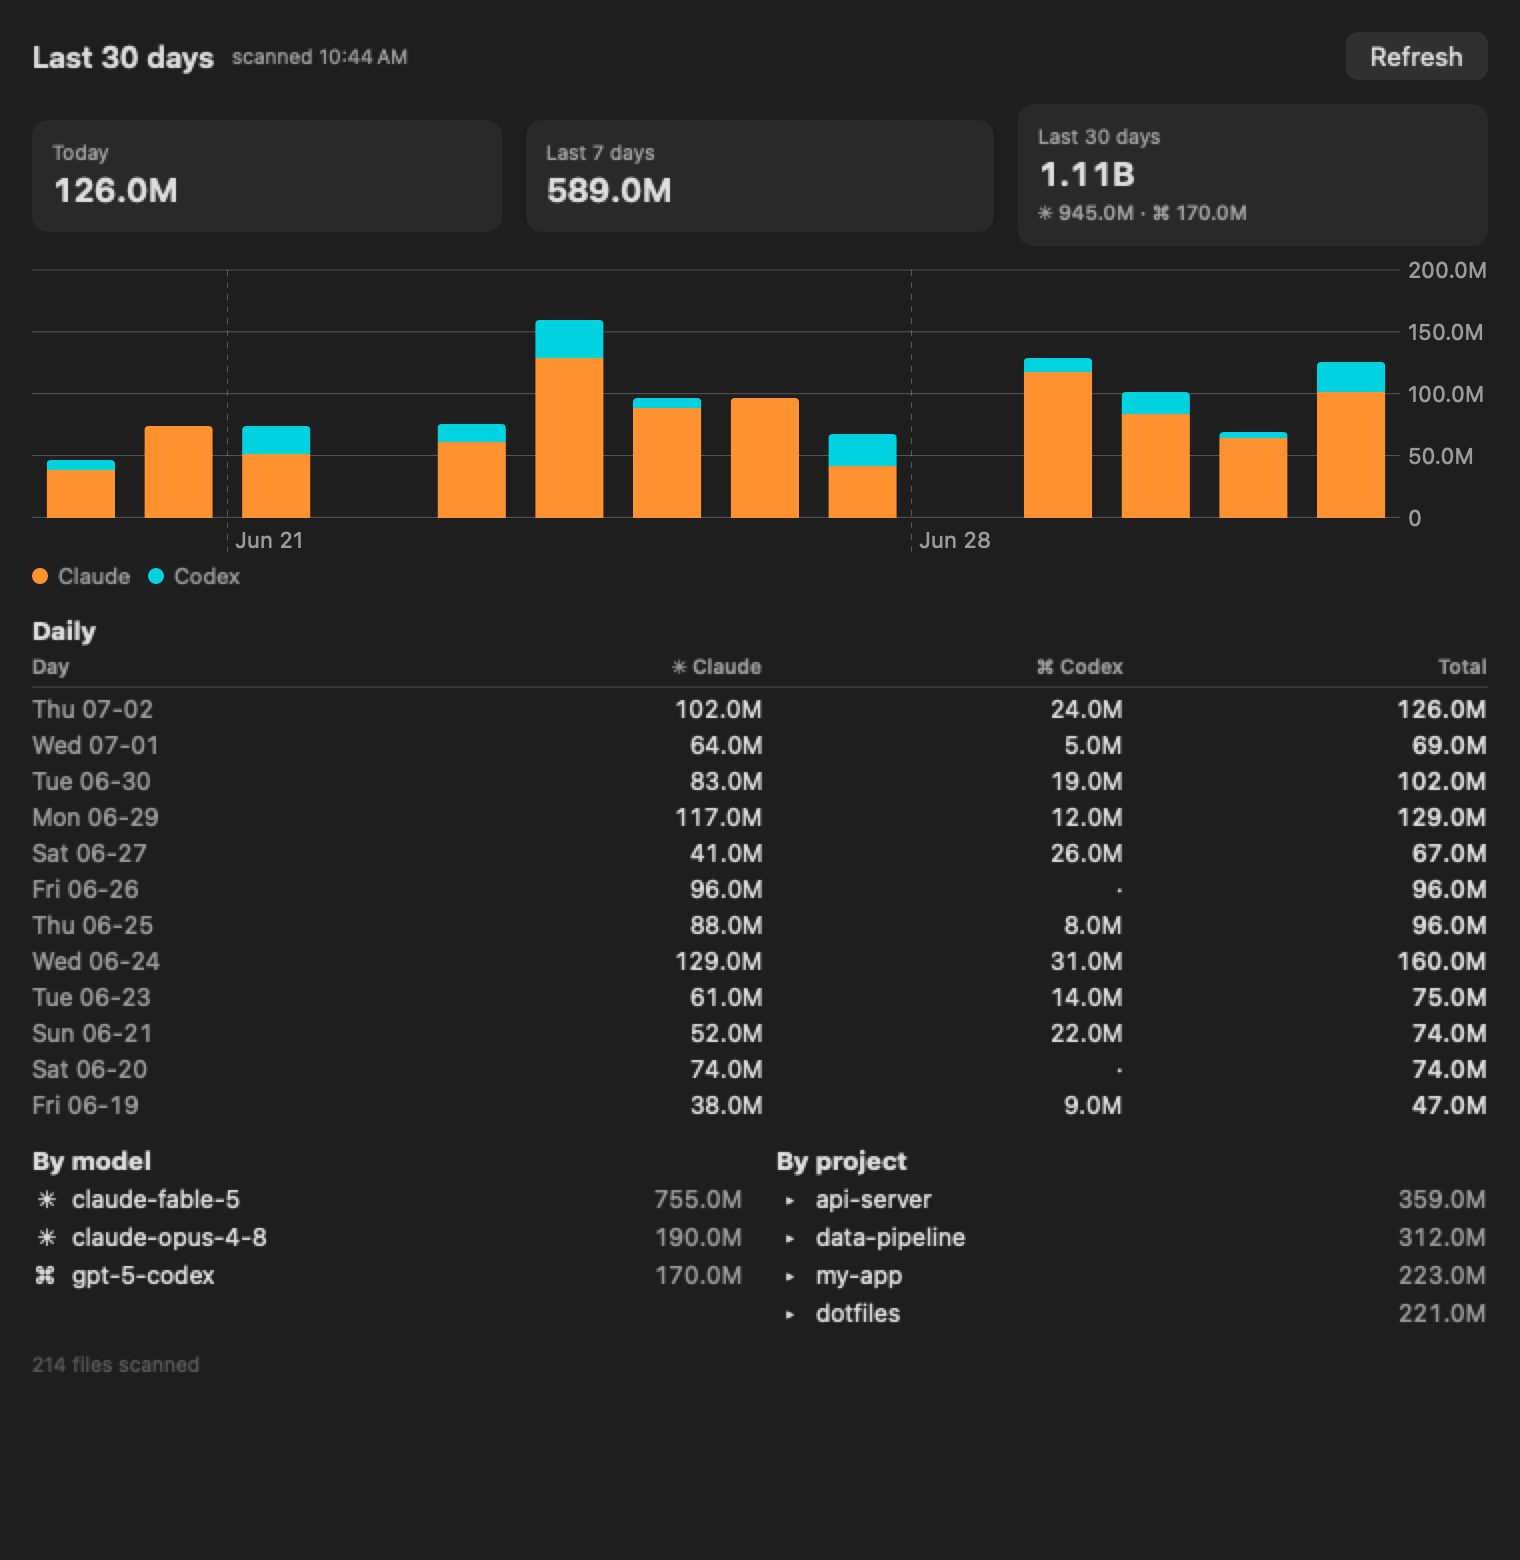
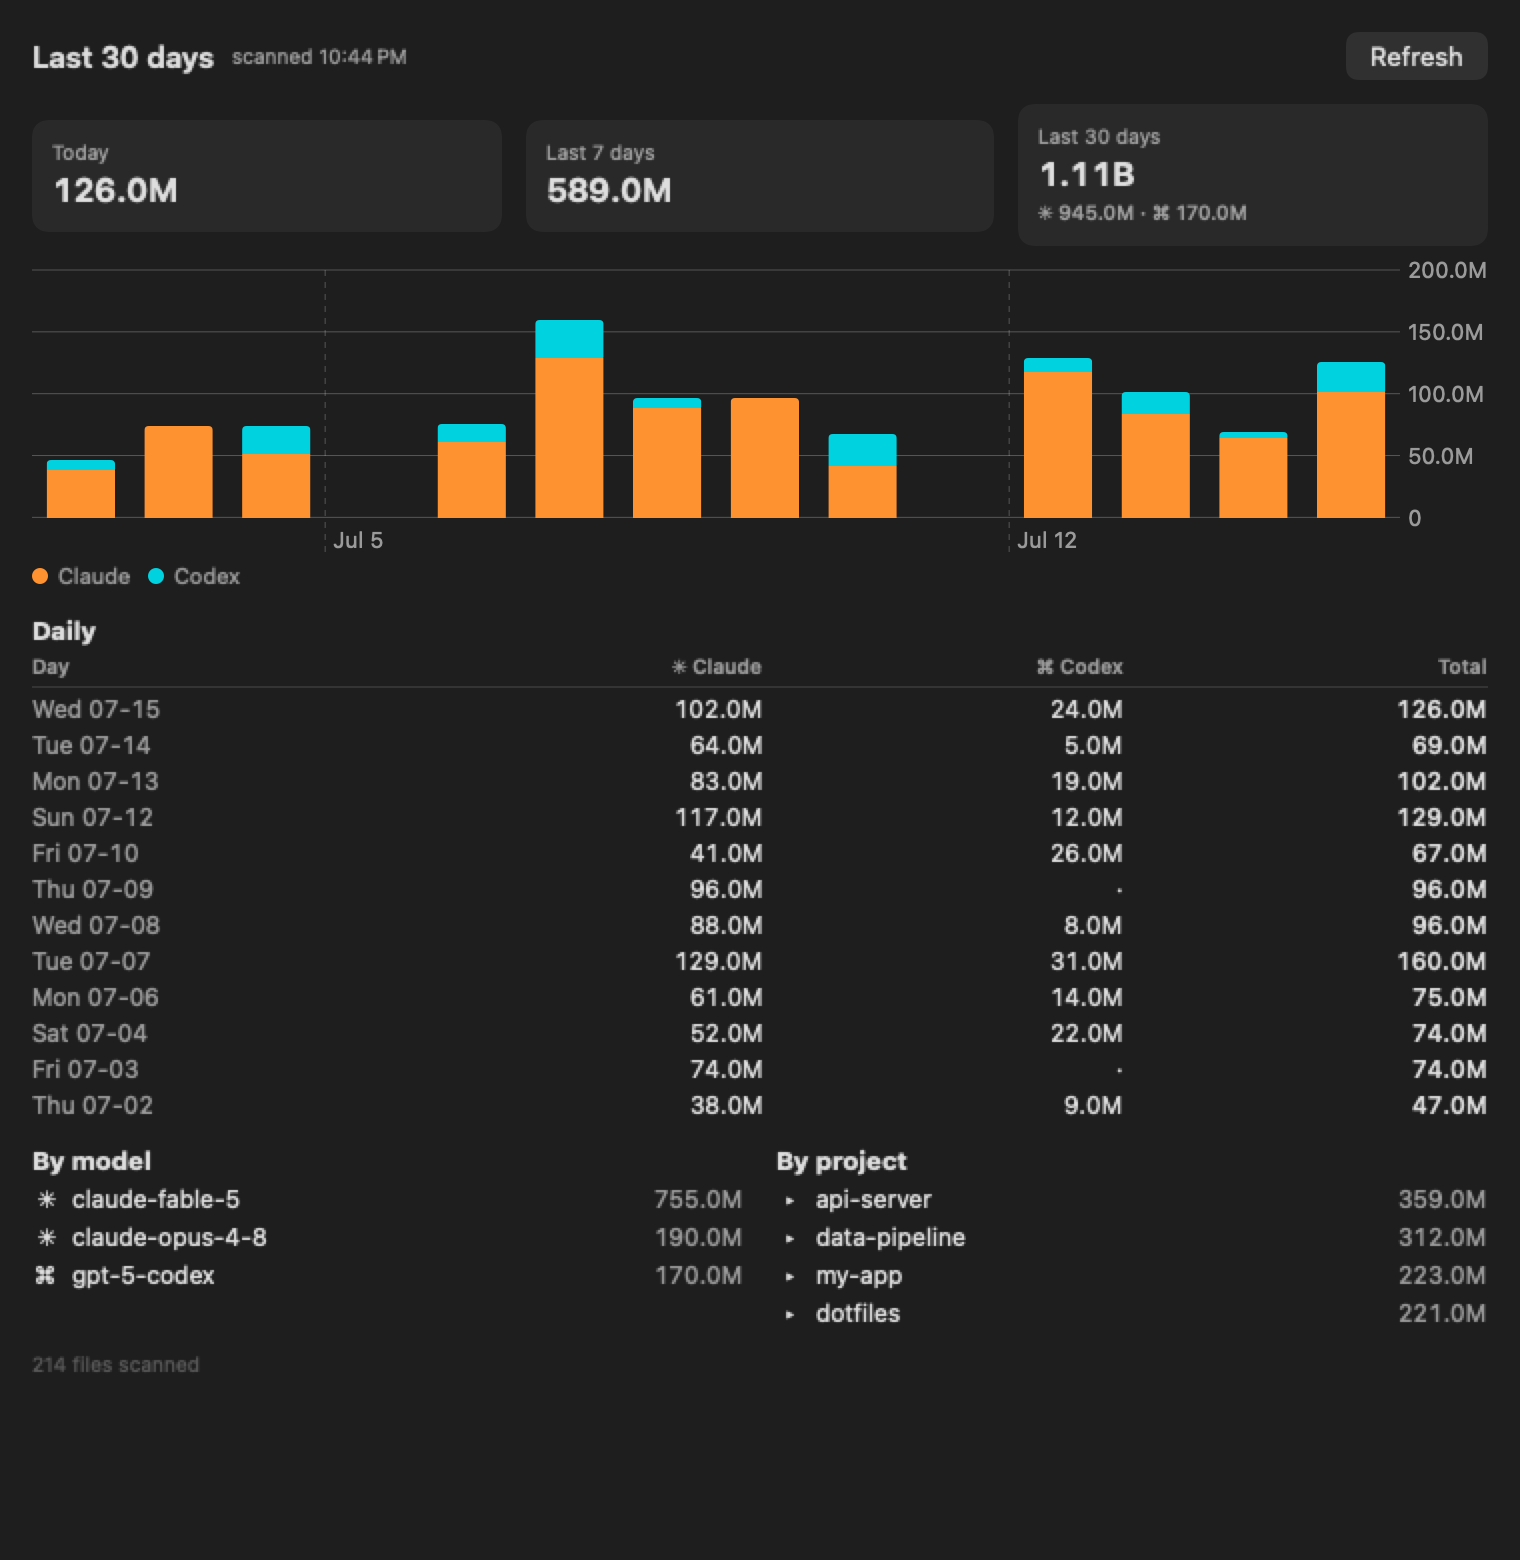
Refresh showcase screenshots with worktree audit
Adds a synthetic Worktrees-window render covering all four tiers and
seeds the notch demo with a worktree snapshot so the new glance line
appears. All data stays synthetic — the showcase never renders real
session content.

diff --git a/Sources/Perch/App/ShowcaseRenderer.swift b/Sources/Perch/App/ShowcaseRenderer.swift
@@ -12,6 +12,53 @@ enum ShowcaseRenderer {
         try renderNotch(to: dir.appendingPathComponent("notch.png"))
         try renderIntegrity(to: dir.appendingPathComponent("integrity.png"))
         try renderUsage(to: dir.appendingPathComponent("usage.png"))
+        try renderWorktrees(to: dir.appendingPathComponent("worktrees.png"))
+    }
+
+    /// Synthetic worktree audit covering all four tiers.
+    static func demoWorktreeSnapshot() -> WorktreeSnapshot {
+        func wt(_ path: String, branch: String? = nil, detached: Bool = false,
+                dirty: Int = 0, ahead: Int? = 0, age: Int, size: Int64, bulk: Int64 = 0,
+                live: Bool = false, prunable: Bool = false) -> WorktreeInfo {
+            WorktreeInfo(path: path, isMain: false, branch: branch, detached: detached,
+                         dirtyCount: dirty, aheadCount: ahead, ageDays: age,
+                         sizeBytes: size, bulkBytes: bulk,
+                         hasLiveSession: live, prunable: prunable, origin: .agent)
+        }
+        let api = RepoWorktrees(repoPath: "/Users/dev/api-server", worktrees: [
+            wt("/Users/dev/api-server/.claude/worktrees/mystifying-bouman-3e7ab0",
+               detached: true, age: 13, size: 494_000_000, bulk: 480_000_000),
+            wt("/Users/dev/api-server/.claude/worktrees/compassionate-morse-f845b1",
+               branch: "retry-queue", ahead: 48, age: 7, size: 1_700_000),
+            wt("/Users/dev/api-server/.claude/worktrees/gifted-golick-68d30a",
+               branch: "rate-limiting", age: 0, size: 245_000_000, bulk: 230_000_000, live: true),
+            wt("/Users/dev/api-server/.claude/worktrees/sleepy-hopper-91c2aa",
+               branch: "spike-cache", age: 21, size: 0, prunable: true),
+        ])
+        let app = RepoWorktrees(repoPath: "/Users/dev/my-app", worktrees: [
+            wt("/Users/dev/my-app/.claude/worktrees/eager-noether-4b81d3",
+               branch: "fix-onboarding", age: 9, size: 320_000),
+            wt("/Users/dev/my-app/.claude/worktrees/vibrant-lovelace-77e0c2",
+               branch: "dark-mode", dirty: 3, age: 5, size: 41_000_000, bulk: 38_000_000),
+        ])
+        return WorktreeSnapshot(repos: [api, app], staleDays: 7, reposScanned: 2,
+                                scannedAt: Date())
+    }
+
+    private static func renderWorktrees(to url: URL) throws {
+        let model = WorktreeModel()
+        model.injectSnapshot(demoWorktreeSnapshot())
+        let size = CGSize(width: 640, height: 540)
+        let view = WorktreeView(model: model)
+            .frame(width: 600, height: 500)
+            .frame(width: size.width, height: size.height, alignment: .top)
+            .padding(20)
+            .background(
+                LinearGradient(colors: [Color(red: 0.12, green: 0.13, blue: 0.22),
+                                        Color(red: 0.05, green: 0.05, blue: 0.09)],
+                               startPoint: .top, endPoint: .bottom))
+            .environment(\.colorScheme, .dark)
+        try writePNG(view, size: CGSize(width: size.width + 40, height: size.height + 40), to: url)
     }
 
     static func demoIntegritySnapshot() -> IntegritySnapshot {
@@ -60,6 +107,7 @@ enum ShowcaseRenderer {
         let usageHistory = UsageHistoryModel()
         let integrity = IntegrityModel()
         let worktrees = WorktreeModel()
+        worktrees.injectSnapshot(demoWorktreeSnapshot())  // glance line renders
         sessions.riskFeed = riskFeed
         sessions.usageStore = usage
 

diff --git a/README.md b/README.md
@@ -17,7 +17,7 @@ turns dangerous. Never gets in the way.
 [![License: MIT](https://img.shields.io/badge/License-MIT-yellow.svg)](LICENSE)
 [![Local only](https://img.shields.io/badge/telemetry-zero-brightgreen)](#security-model)
 
-<img src="docs/img/notch.png" width="760" alt="Perch's notch panel: security score 75 (Elevated), a Bash call flagged dangerous — 'runs as root (sudo), downloads and pipes into a shell' — with the exact command shown, plus live session list, token totals, and rate-limit gauges">
+<img src="docs/img/notch.png" width="760" alt="Perch's notch panel: security score 75 (Elevated), a Bash call flagged dangerous — 'runs as root (sudo), downloads and pipes into a shell' — with the exact command shown, plus worktree and token glance lines and rate-limit gauges">
 
 </div>
 
@@ -63,9 +63,11 @@ and what they've **left behind**:
 | 🪶 **Zero footprint** | No dependencies, no telemetry, ~13k lines of auditable Swift. If Perch dies, your agents don't even notice. |
 
 <details>
-<summary><b>🧭 Footholds page &amp; 📊 token dashboard screenshots</b></summary>
+<summary><b>🧭 Footholds · 🌳 Worktrees · 📊 token dashboard screenshots</b></summary>
 <div align="center">
 <img src="docs/img/integrity.png" width="560" alt="Footholds page: agent-config, instructions/memory, and system-persistence surfaces with per-item state — a non-Perch hook in settings.json, recently-changed project CLAUDE.md files, LaunchAgents and shell profiles">
+<br><br>
+<img src="docs/img/worktrees.png" width="640" alt="Worktrees window: summary tiles for count, total size, and reclaimable bytes; per-project rows with reclaimable / review / active / orphaned tier badges, dirty-file and commits-ahead notes, and a Copy cleanup commands button — read-only, Perch never deletes">
 <br><br>
 <img src="docs/img/usage.png" width="680" alt="Token usage dashboard: daily stacked chart plus per-day, per-model and per-project breakdowns">
 </div>